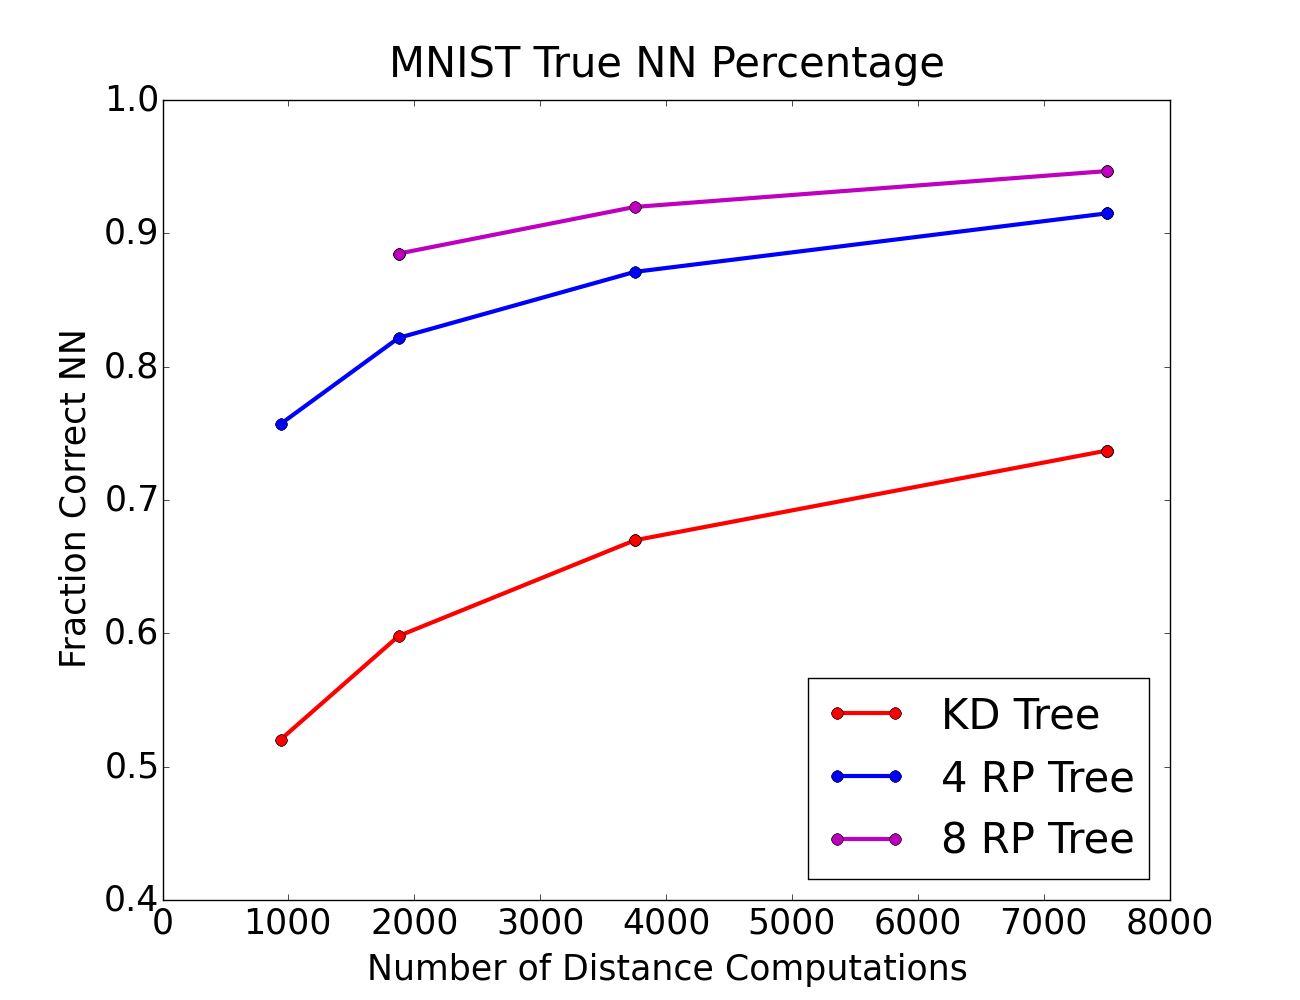
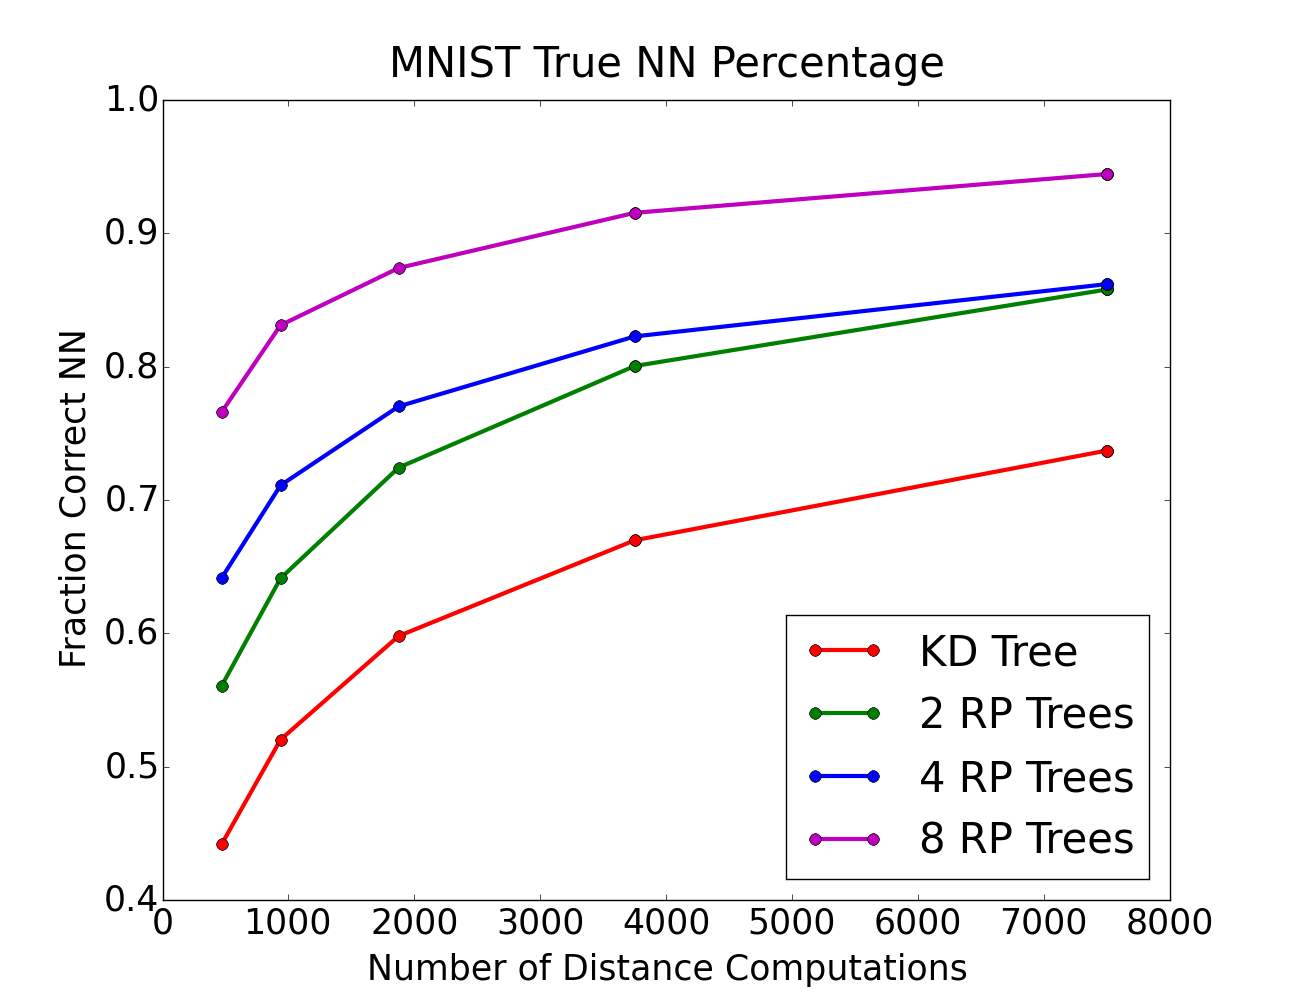
update mnist data

diff --git a/data/mnist/pyplot.py b/data/mnist/pyplot.py
@@ -117,29 +117,48 @@ def ran_spill_vspill():
 	figure.set_size_inches(13, 10)
 	plt.savefig("mnist_multi_spill_vspill.png")
 
-def ran4_kd():
+def ran2_kd():
 	plt.axis([0,8000,0.4,1])
-	kd_x, kd_y = read_partial_file(3,2,1,10,1,'kd_tree.dat')
-	ran_x, ran_y = read_partial_file(3,2,0,5,1,'4multi_kd_tree.dat')
+	kd_x, kd_y = read_partial_file(3,2,0,10,1,'kd_tree.dat')
+	ran_x, ran_y = read_partial_file(3,2,0,10,1,'2multi_kd_tree.dat')
 	kd_line, = plt.plot(kd_x, kd_y, 'ro-', label='KD Tree', lw=3, ms=8)
-	ran_line, = plt.plot(ran_x, ran_y, 'bo-', label='4 RP Tree', lw=3, ms=8)
+	ran_line, = plt.plot(ran_x, ran_y, 'bo-', label='2 RP Tree', lw=3, ms=8)
 	plt.legend(handles=[kd_line,ran_line],loc=4)
 	figure = plt.gcf()
 	figure.set_size_inches(13, 10)
-	plt.savefig("mnist_ran4_kd.png")
+	plt.savefig("mnist_ran2_kd.png")
 
 def ran8_kd():
 	plt.axis([0,8000,0.4,1])
-	kd_x, kd_y = read_partial_file(3,2,1,10,1,'kd_tree.dat')
-	ran_x, ran_y = read_partial_file(3,2,0,5,1,'4multi_kd_tree.dat')
-	ran8_x, ran8_y = read_partial_file(3,2,0,5,1,'8multi_kd_tree.dat')
+	kd_x, kd_y = read_partial_file(3,2,0,10,1,'kd_tree.dat')
+	ran_x, ran_y = read_partial_file(3,2,0,10,1,'2multi_kd_tree.dat')
+	ran4_x, ran4_y = read_partial_file(3,2,0,10,1,'4multi_kd_tree.dat')
+	ran8_x, ran8_y = read_partial_file(3,2,0,10,1,'8multi_kd_tree.dat')
 	kd_line, = plt.plot(kd_x, kd_y, 'ro-', label='KD Tree', lw=3, ms=8)
-	ran_line, = plt.plot(ran_x, ran_y, 'bo-', label='4 RP Tree', lw=3, ms=8)
-	ran8_line, = plt.plot(ran8_x, ran8_y, 'mo-', label='8 RP Tree', lw=3, ms=8)
-	plt.legend(handles=[kd_line,ran_line, ran8_line],loc=4)
+	ran_line, = plt.plot(ran_x, ran_y, 'go-', label='2 RP Trees', lw=3, ms=8)
+	ran4_line, = plt.plot(ran4_x, ran4_y, 'bo-', label='4 RP Trees', lw=3, ms=8)
+	ran8_line, = plt.plot(ran8_x, ran8_y, 'mo-', label='8 RP Trees', lw=3, ms=8)
+	plt.legend(handles=[kd_line,ran_line,ran4_line,ran8_line],loc=4)
 	figure = plt.gcf()
 	figure.set_size_inches(13, 10)
 	plt.savefig("mnist_ran8_kd.png")
+
+def kd_pca_ran():
+	plt.axis([0,8000,0.4,1])
+	kd_x, kd_y = read_file(3,2,'kd_tree.dat')
+	pca_x, pca_y = read_file(3,2,'pca_tree.dat')
+	ran_x, ran_y = read_file(3,2,'2multi_kd_tree.dat')
+	ran4_x, ran4_y = read_file(3,2,'4multi_kd_tree.dat')
+	ran8_x, ran8_y = read_file(3,2,'8multi_kd_tree.dat')
+	kd_line, = plt.plot(kd_x, kd_y, 'ro-', label='KD Tree', lw=3, ms=8)
+	pca_line, = plt.plot(pca_x, pca_y, 'bo-', label='PCA Tree', lw=3, ms=8)
+	ran_line, = plt.plot(ran_x, ran_y, 'go-', label='2 RP Trees', lw=3, ms=8)
+	ran4_line, = plt.plot(ran4_x, ran4_y, 'co-', label='4 RP Trees', lw=3, ms=8)
+	ran8_line, = plt.plot(ran8_x, ran8_y, 'mo-', label='8 RP Trees', lw=3, ms=8)
+	plt.legend(handles=[kd_line,pca_line, ran_line,ran4_line,ran8_line],loc=4)
+	figure = plt.gcf()
+	figure.set_size_inches(13, 10)
+	plt.savefig("mnist_kd_pca_ran8.png")
 
 def main():
 	font = {'size' : 25}
@@ -151,7 +170,7 @@ def main():
 	plt.xlabel('Number of Distance Computations', labelpad = 10)
 	plt.ylabel('Fraction Correct NN', labelpad = 10)
 
-	kd_tie()
+	kd_pca_ran()
 
 main()
 
